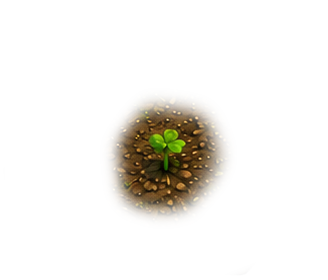
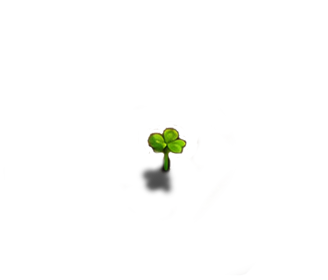
Fix bonustime token grant and orchard plant sizes

Changed region(s): [[0.3354, 0.3429, 0.7012, 0.8]]

diff --git a/assets/src/features/areas/orchard/render.ts b/assets/src/features/areas/orchard/render.ts
@@ -10,6 +10,7 @@ import { pointInRect, type InteractionState } from "../../../ui/managers/interac
 import { queueTooltip } from "../../../ui/components/tooltip";
 import {
   orchardHexPoints,
+  orchardHexPlotRatio,
   orchardHexState,
   getOrchardViewModel
 } from "./view-model";
@@ -45,6 +46,7 @@ type OrchardPlantRenderRequest = {
   plantId: string;
   growth: number;
   isPlotHovered: boolean;
+  plotRatio: number;
 };
 
 type OrchardPlantRenderOptions = {
@@ -229,7 +231,8 @@ function getPlantHoverOpacity(state: OrchardPlantRenderState, now: number) {
 function getPlantImageFrame(
   uvPoints: readonly (readonly [number, number])[],
   image: HTMLImageElement,
-  renderOptions: OrchardPlantRenderOptions
+  renderOptions: OrchardPlantRenderOptions,
+  rawPlotRatio: number
 ) {
   let minX = uvPoints[0][0];
   let maxX = uvPoints[0][0];
@@ -244,10 +247,14 @@ function getPlantImageFrame(
     if (v > maxY) maxY = v;
   }
 
+  const plotRatio = Number.isFinite(rawPlotRatio) && rawPlotRatio > 0
+    ? rawPlotRatio
+    : 1;
+  const widthRatio = 1 + ((plotRatio - 1) * 0.5);
   const centerX = ((minX + maxX) / 2) * DISPLAY_AREA_WIDTH;
-  const width = image.naturalWidth * renderOptions.w;
-  const height = image.naturalHeight * renderOptions.h;
-  const bottomY = DISPLAY_AREA_Y + maxY * DISPLAY_AREA_HEIGHT + renderOptions.y;
+  const width = image.naturalWidth * renderOptions.w * widthRatio;
+  const height = image.naturalHeight * renderOptions.h * plotRatio;
+  const bottomY = DISPLAY_AREA_Y + maxY * DISPLAY_AREA_HEIGHT + renderOptions.y * plotRatio;
 
   return {
     x: DISPLAY_AREA_X + centerX - width / 2,
@@ -284,7 +291,8 @@ function renderPlantImage(
   plotId: string,
   plantId: string,
   growth: number,
-  isPlotHovered: boolean
+  isPlotHovered: boolean,
+  plotRatio: number
 ) {
   const now = performance.now();
   const currentStage = resolvePlantStage(growth);
@@ -309,7 +317,7 @@ function renderPlantImage(
     }
 
     if (isRenderablePlantImage(currentImage) && isRenderablePlantImage(previousImage)) {
-      const frame = getPlantImageFrame(uvPoints, currentImage, plantOptions);
+      const frame = getPlantImageFrame(uvPoints, currentImage, plantOptions, plotRatio);
       const alpha = resolvePlantSpriteOpacity(state, input, isPlotHovered, frame, now);
       renderer.drawImage({
         image: previousImage,
@@ -325,7 +333,7 @@ function renderPlantImage(
     }
 
     if (isRenderablePlantImage(currentImage)) {
-      const frame = getPlantImageFrame(uvPoints, currentImage, plantOptions);
+      const frame = getPlantImageFrame(uvPoints, currentImage, plantOptions, plotRatio);
       const alpha = resolvePlantSpriteOpacity(state, input, isPlotHovered, frame, now);
       renderer.drawImage({
         image: currentImage,
@@ -339,7 +347,7 @@ function renderPlantImage(
     }
 
     if (isRenderablePlantImage(previousImage)) {
-      const frame = getPlantImageFrame(uvPoints, previousImage, plantOptions);
+      const frame = getPlantImageFrame(uvPoints, previousImage, plantOptions, plotRatio);
       const alpha = resolvePlantSpriteOpacity(state, input, isPlotHovered, frame, now);
       renderer.drawImage({
         image: previousImage,
@@ -363,7 +371,7 @@ function renderPlantImage(
     return;
   }
 
-  const frame = getPlantImageFrame(uvPoints, currentImage, plantOptions);
+  const frame = getPlantImageFrame(uvPoints, currentImage, plantOptions, plotRatio);
   const alpha = resolvePlantSpriteOpacity(state, input, isPlotHovered, frame, now);
   renderer.drawImage({
     image: currentImage,
@@ -511,7 +519,8 @@ export function renderOrchard(input?: InteractionState) {
           plotId: hex.id,
           plantId: plant.plant_id,
           growth: plant.growth,
-          isPlotHovered: isHovered
+          isPlotHovered: isHovered,
+          plotRatio: orchardHexPlotRatio(hex)
         });
 
         // Spawn slowly rising particles from the plot when ready for harvest
@@ -645,7 +654,8 @@ export function renderOrchard(input?: InteractionState) {
       request.plotId,
       request.plantId,
       request.growth,
-      request.isPlotHovered
+      request.isPlotHovered,
+      request.plotRatio
     );
   }
 

diff --git a/assets/src/features/areas/orchard/view-model.ts b/assets/src/features/areas/orchard/view-model.ts
@@ -12,6 +12,7 @@ export type OrchardHexagon = {
   points: readonly OrchardUvPoint[];
   state?: OrchardHexState;
   plotData?: PlotState | null;
+  plotRatio?: number;
 };
 
 export type OrchardViewModel = {
@@ -396,6 +397,11 @@ const orchardViewModel: OrchardViewModel = {
   ]
 };
 
+const ORCHARD_BASELINE_RENDER_PLOT_ID = "plot_8";
+const ORCHARD_FRONT_ROW_RENDER_PLOT_IDS = new Set(["plot_20", "plot_8", "plot_21"]);
+
+initializePlotRatios();
+
 export function getOrchardViewModel() {
   return orchardViewModel;
 }
@@ -406,6 +412,10 @@ export function orchardHexPoints(hex: OrchardHexagon): readonly OrchardUvPoint[]
 
 export function orchardHexState(hex: OrchardHexagon): OrchardHexState {
   return hex.state ?? "locked";
+}
+
+export function orchardHexPlotRatio(hex: OrchardHexagon): number {
+  return hex.plotRatio ?? 1;
 }
 
 export function syncOrchardFromSnapshot(snapshotState: any) {
@@ -466,4 +476,32 @@ function getNutrientRatio(soilVal: any, limit: { min: number; max: number } | nu
     return Math.min(1.0, soilFloat / maxVal);
   }
   return 0;
+}
+
+function initializePlotRatios() {
+  const baselineHex = orchardViewModel.hexagons.find((hex) => hex.id === ORCHARD_BASELINE_RENDER_PLOT_ID);
+  const baselineHeight = baselineHex ? getPlotUvHeight(baselineHex.points) : 0;
+
+  for (const hex of orchardViewModel.hexagons as OrchardHexagon[]) {
+    if (baselineHeight <= 0 || ORCHARD_FRONT_ROW_RENDER_PLOT_IDS.has(hex.id)) {
+      hex.plotRatio = 1;
+      continue;
+    }
+
+    const plotRatio = getPlotUvHeight(hex.points) / baselineHeight;
+    hex.plotRatio = Number.isFinite(plotRatio) && plotRatio > 0 ? plotRatio : 1;
+  }
+}
+
+function getPlotUvHeight(points: readonly OrchardUvPoint[]) {
+  let minY = points[0][1];
+  let maxY = points[0][1];
+
+  for (let i = 1; i < points.length; i += 1) {
+    const y = points[i][1];
+    if (y < minY) minY = y;
+    if (y > maxY) maxY = y;
+  }
+
+  return maxY - minY;
 }
